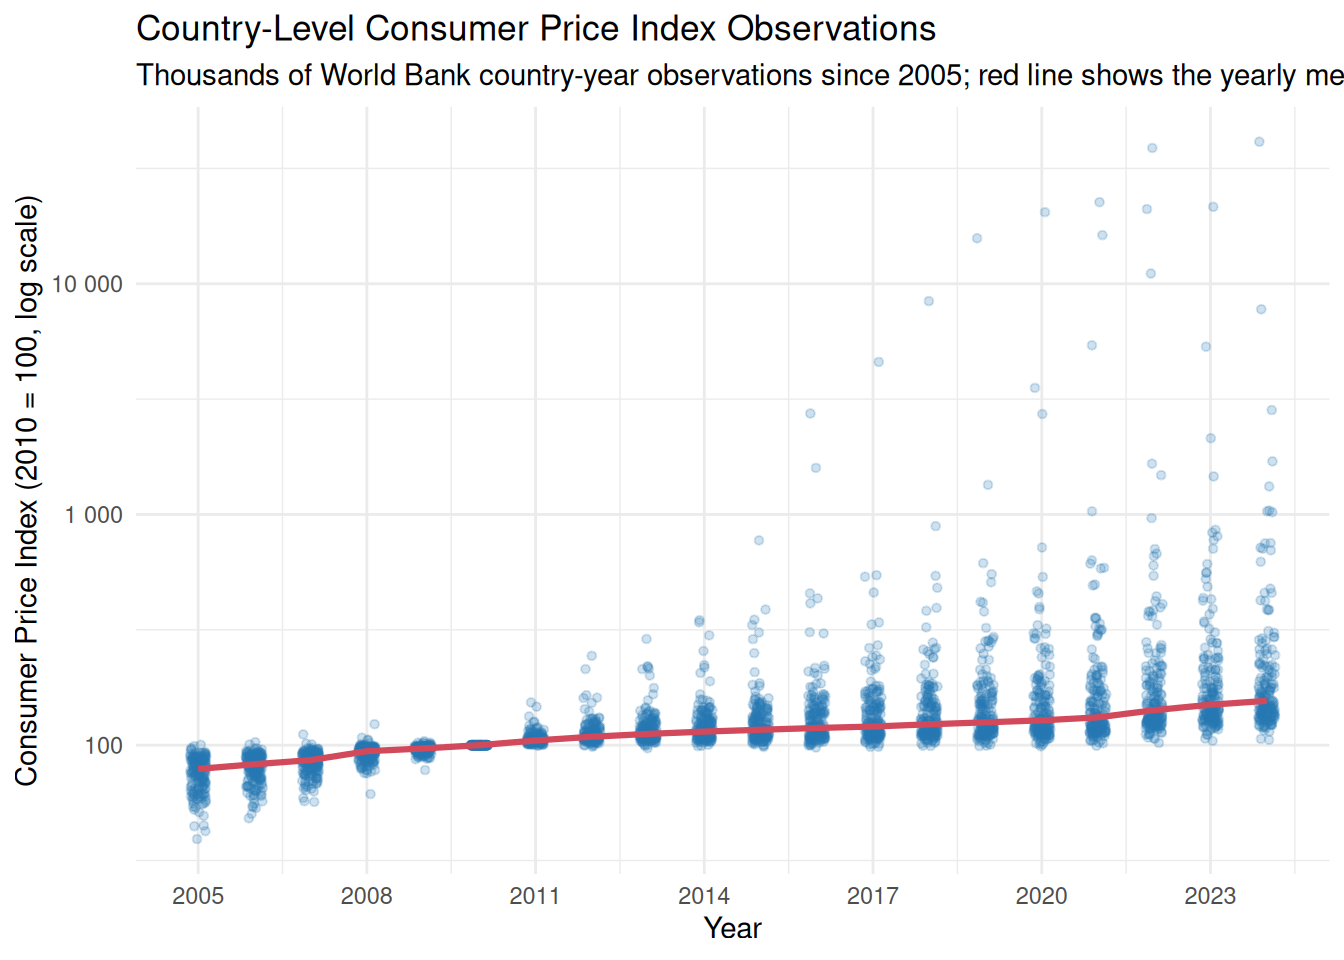
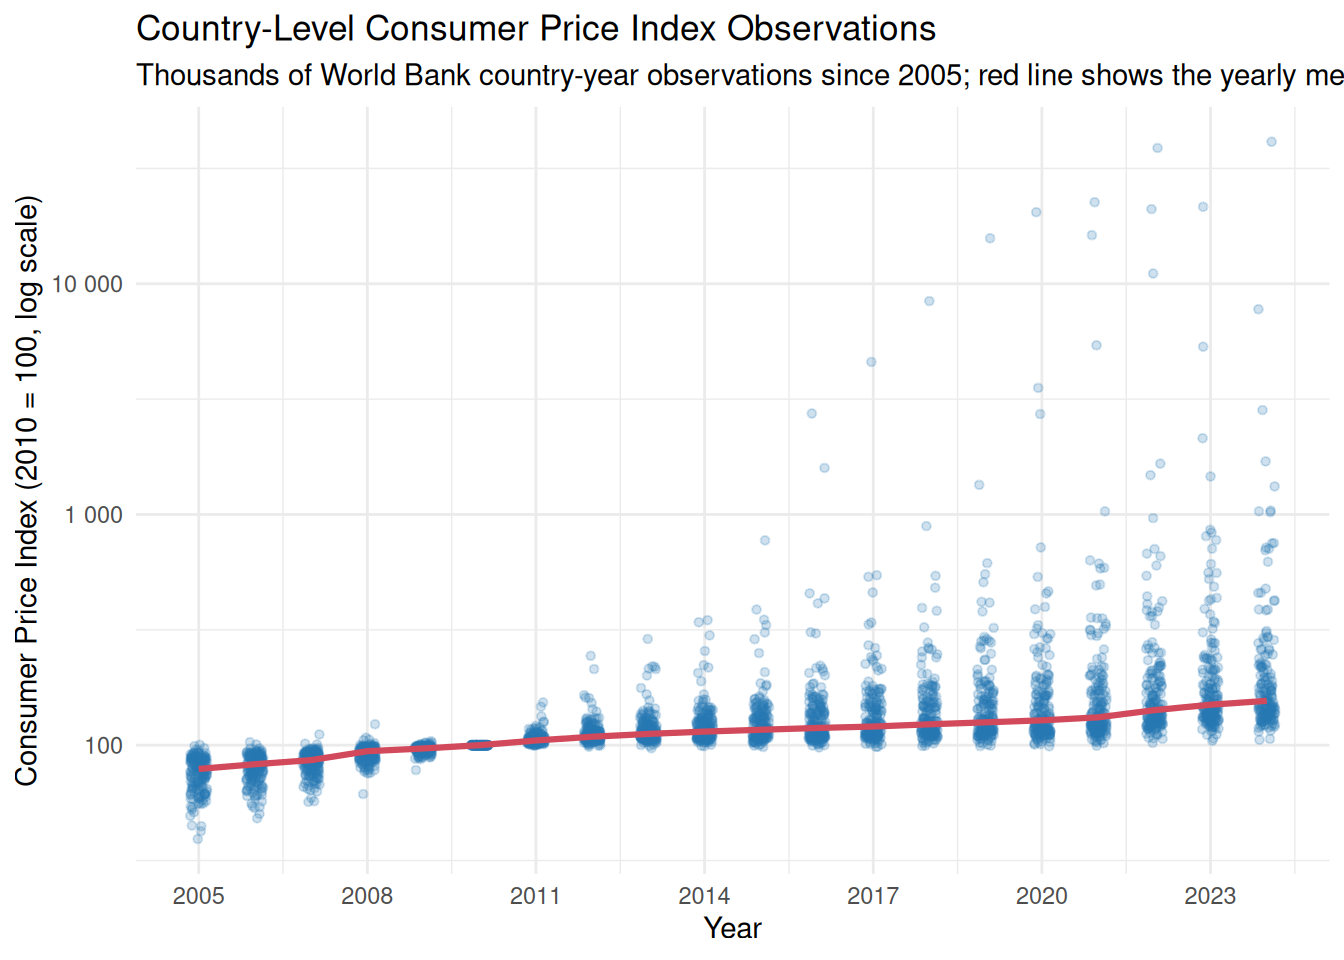
Built site for gh-pages

diff --git a/index.html b/index.html
@@ -77,9 +77,13 @@ ul.task-list li input[type="checkbox"] {
 </header>
 
 
+<div class="tabset-margin-container"></div><div class="panel-tabset">
+<ul class="nav nav-tabs" role="tablist"><li class="nav-item" role="presentation"><a class="nav-link active" id="tabset-1-1-tab" data-bs-toggle="tab" data-bs-target="#tabset-1-1" role="tab" aria-controls="tabset-1-1" aria-selected="true" href="">Story</a></li><li class="nav-item" role="presentation"><a class="nav-link" id="tabset-1-2-tab" data-bs-toggle="tab" data-bs-target="#tabset-1-2" role="tab" aria-controls="tabset-1-2" aria-selected="false" href="">Explore</a></li></ul>
+<div class="tab-content">
+<div id="tabset-1-1" class="tab-pane active" role="tabpanel" aria-labelledby="tabset-1-1-tab">
 <p>As most kids and teenagers did in 2017, I was scrolling on Instagram looking at a bunch of different soccer/sports pages. Many of those pages would talk about Transfermarkt prices for soccer players. On August 3rd, I saw Neymar was sold to PSG for € 222 million. At this time, that was a world record transfer and was pretty crazy to the soccer community. The highest transfer price before that was less than half, at € 105 million. Because of that, I started to wonder how the prices have changed over time for transfer values relative to the prices of everything in the world/the Consumer Price Index. The Consumer Price Index (CPI) is a measure of the average change over time in the prices paid by urban consumers for a market basket of goods and services, and it is the most widely used indicator of inflation in the United States. In simpler terms, it can also be how much a certain amount of money today could buy you in the years prior. Since 2005, the U.S. CPI has risen from about 195.3 in 2005 to 334.1 in August 2026, reflecting an overall increase of roughly 71% in price. I wanted to make a project with images and data sets to help show other people this relation.</p>
-<section id="top-25-most-valuable-players-by-year" class="level2">
-<h2 class="anchored" data-anchor-id="top-25-most-valuable-players-by-year">Top 25 Most Valuable Players by Year</h2>
+</div>
+<div id="tabset-1-2" class="tab-pane" role="tabpanel" aria-labelledby="tabset-1-2-tab">
 <p>Transfermarkt is a soccer data website that tracks players, clubs, transfers, and estimated market values. The table below uses Transfermarkt data to show the 25 players with the highest estimated market values for each selected year.</p>
 <div class="year-selector-row">
 <p><label for="yearSelect">Choose a year:</label> <select id="yearSelect"></select></p>
@@ -299,11 +303,11 @@ if (years.length > 0) {
   updateSelection(years[years.length - 1]);
 }
 </script>
+<section id="project" class="level3">
+<h3 class="anchored" data-anchor-id="project">Project</h3>
 </section>
-<section id="project" class="level1">
-<h1>Project</h1>
-<section id="transfer-market-values-over-time" class="level2">
-<h2 class="anchored" data-anchor-id="transfer-market-values-over-time">Transfer Market Values Over Time</h2>
+<section id="transfer-market-values-over-time" class="level3">
+<h3 class="anchored" data-anchor-id="transfer-market-values-over-time">Transfer Market Values Over Time</h3>
 <div class="cell">
 <div class="cell-output-display">
 <div>
@@ -314,8 +318,8 @@ if (years.length > 0) {
 </div>
 </div>
 </section>
-<section id="consumer-price-index-over-time" class="level2">
-<h2 class="anchored" data-anchor-id="consumer-price-index-over-time">Consumer Price Index Over Time</h2>
+<section id="consumer-price-index-over-time" class="level3">
+<h3 class="anchored" data-anchor-id="consumer-price-index-over-time">Consumer Price Index Over Time</h3>
 <div class="cell">
 <div class="cell-output-display">
 <div>
@@ -326,8 +330,20 @@ if (years.length > 0) {
 </div>
 </div>
 </section>
-<section id="consumer-price-index-observations-since-2005" class="level2">
-<h2 class="anchored" data-anchor-id="consumer-price-index-observations-since-2005">Consumer Price Index Observations Since 2005</h2>
+<section id="average-player-market-value-and-cpi-since-2005" class="level3">
+<h3 class="anchored" data-anchor-id="average-player-market-value-and-cpi-since-2005">Average Player Market Value and CPI Since 2005</h3>
+<div class="cell">
+<div class="cell-output-display">
+<div>
+<figure class="figure">
+<p><img src="project_files/figure-html/plot-market-value-cpi-comparison-1.png" class="img-fluid figure-img" width="672"></p>
+</figure>
+</div>
+</div>
+</div>
+</section>
+<section id="consumer-price-index-observations-since-2005" class="level3">
+<h3 class="anchored" data-anchor-id="consumer-price-index-observations-since-2005">Consumer Price Index Observations Since 2005</h3>
 <div class="cell">
 <div class="cell-output-display">
 <div>
@@ -338,8 +354,8 @@ if (years.length > 0) {
 </div>
 </div>
 </section>
-<section id="ballon-dor-winners-and-market-values" class="level2">
-<h2 class="anchored" data-anchor-id="ballon-dor-winners-and-market-values">Ballon d’Or Winners and Market Values</h2>
+<section id="ballon-dor-winners-and-market-values" class="level3">
+<h3 class="anchored" data-anchor-id="ballon-dor-winners-and-market-values">Ballon d’Or Winners and Market Values</h3>
 <p>The Ballon d’Or is an annual award given to the soccer player judged to have performed the best during the year. It is voted on by journalists from around the world and is one of the most prestigious individual awards in soccer. The table below lists each winner along with their position, club, age, and estimated market value at the time.</p>
 <table class="caption-top table">
 <colgroup>
@@ -524,7 +540,9 @@ if (years.length > 0) {
 </tbody>
 </table>
 </section>
-</section>
+</div>
+</div>
+</div>
 
 </main>
 <!-- /main column -->

diff --git a/project.html b/project.html
@@ -77,9 +77,13 @@ ul.task-list li input[type="checkbox"] {
 </header>
 
 
+<div class="tabset-margin-container"></div><div class="panel-tabset">
+<ul class="nav nav-tabs" role="tablist"><li class="nav-item" role="presentation"><a class="nav-link active" id="tabset-1-1-tab" data-bs-toggle="tab" data-bs-target="#tabset-1-1" role="tab" aria-controls="tabset-1-1" aria-selected="true" href="">Story</a></li><li class="nav-item" role="presentation"><a class="nav-link" id="tabset-1-2-tab" data-bs-toggle="tab" data-bs-target="#tabset-1-2" role="tab" aria-controls="tabset-1-2" aria-selected="false" href="">Explore</a></li></ul>
+<div class="tab-content">
+<div id="tabset-1-1" class="tab-pane active" role="tabpanel" aria-labelledby="tabset-1-1-tab">
 <p>As most kids and teenagers did in 2017, I was scrolling on Instagram looking at a bunch of different soccer/sports pages. Many of those pages would talk about Transfermarkt prices for soccer players. On August 3rd, I saw Neymar was sold to PSG for € 222 million. At this time, that was a world record transfer and was pretty crazy to the soccer community. The highest transfer price before that was less than half, at € 105 million. Because of that, I started to wonder how the prices have changed over time for transfer values relative to the prices of everything in the world/the Consumer Price Index. The Consumer Price Index (CPI) is a measure of the average change over time in the prices paid by urban consumers for a market basket of goods and services, and it is the most widely used indicator of inflation in the United States. In simpler terms, it can also be how much a certain amount of money today could buy you in the years prior. Since 2005, the U.S. CPI has risen from about 195.3 in 2005 to 334.1 in August 2026, reflecting an overall increase of roughly 71% in price. I wanted to make a project with images and data sets to help show other people this relation.</p>
-<section id="top-25-most-valuable-players-by-year" class="level2">
-<h2 class="anchored" data-anchor-id="top-25-most-valuable-players-by-year">Top 25 Most Valuable Players by Year</h2>
+</div>
+<div id="tabset-1-2" class="tab-pane" role="tabpanel" aria-labelledby="tabset-1-2-tab">
 <p>Transfermarkt is a soccer data website that tracks players, clubs, transfers, and estimated market values. The table below uses Transfermarkt data to show the 25 players with the highest estimated market values for each selected year.</p>
 <div class="year-selector-row">
 <p><label for="yearSelect">Choose a year:</label> <select id="yearSelect"></select></p>
@@ -299,11 +303,11 @@ if (years.length > 0) {
   updateSelection(years[years.length - 1]);
 }
 </script>
+<section id="project" class="level3">
+<h3 class="anchored" data-anchor-id="project">Project</h3>
 </section>
-<section id="project" class="level1">
-<h1>Project</h1>
-<section id="transfer-market-values-over-time" class="level2">
-<h2 class="anchored" data-anchor-id="transfer-market-values-over-time">Transfer Market Values Over Time</h2>
+<section id="transfer-market-values-over-time" class="level3">
+<h3 class="anchored" data-anchor-id="transfer-market-values-over-time">Transfer Market Values Over Time</h3>
 <div class="cell">
 <div class="cell-output-display">
 <div>
@@ -314,8 +318,8 @@ if (years.length > 0) {
 </div>
 </div>
 </section>
-<section id="consumer-price-index-over-time" class="level2">
-<h2 class="anchored" data-anchor-id="consumer-price-index-over-time">Consumer Price Index Over Time</h2>
+<section id="consumer-price-index-over-time" class="level3">
+<h3 class="anchored" data-anchor-id="consumer-price-index-over-time">Consumer Price Index Over Time</h3>
 <div class="cell">
 <div class="cell-output-display">
 <div>
@@ -326,8 +330,20 @@ if (years.length > 0) {
 </div>
 </div>
 </section>
-<section id="consumer-price-index-observations-since-2005" class="level2">
-<h2 class="anchored" data-anchor-id="consumer-price-index-observations-since-2005">Consumer Price Index Observations Since 2005</h2>
+<section id="average-player-market-value-and-cpi-since-2005" class="level3">
+<h3 class="anchored" data-anchor-id="average-player-market-value-and-cpi-since-2005">Average Player Market Value and CPI Since 2005</h3>
+<div class="cell">
+<div class="cell-output-display">
+<div>
+<figure class="figure">
+<p><img src="project_files/figure-html/plot-market-value-cpi-comparison-1.png" class="img-fluid figure-img" width="672"></p>
+</figure>
+</div>
+</div>
+</div>
+</section>
+<section id="consumer-price-index-observations-since-2005" class="level3">
+<h3 class="anchored" data-anchor-id="consumer-price-index-observations-since-2005">Consumer Price Index Observations Since 2005</h3>
 <div class="cell">
 <div class="cell-output-display">
 <div>
@@ -338,8 +354,8 @@ if (years.length > 0) {
 </div>
 </div>
 </section>
-<section id="ballon-dor-winners-and-market-values" class="level2">
-<h2 class="anchored" data-anchor-id="ballon-dor-winners-and-market-values">Ballon d’Or Winners and Market Values</h2>
+<section id="ballon-dor-winners-and-market-values" class="level3">
+<h3 class="anchored" data-anchor-id="ballon-dor-winners-and-market-values">Ballon d’Or Winners and Market Values</h3>
 <p>The Ballon d’Or is an annual award given to the soccer player judged to have performed the best during the year. It is voted on by journalists from around the world and is one of the most prestigious individual awards in soccer. The table below lists each winner along with their position, club, age, and estimated market value at the time.</p>
 <table class="caption-top table">
 <colgroup>
@@ -524,7 +540,9 @@ if (years.length > 0) {
 </tbody>
 </table>
 </section>
-</section>
+</div>
+</div>
+</div>
 
 </main>
 <!-- /main column -->
